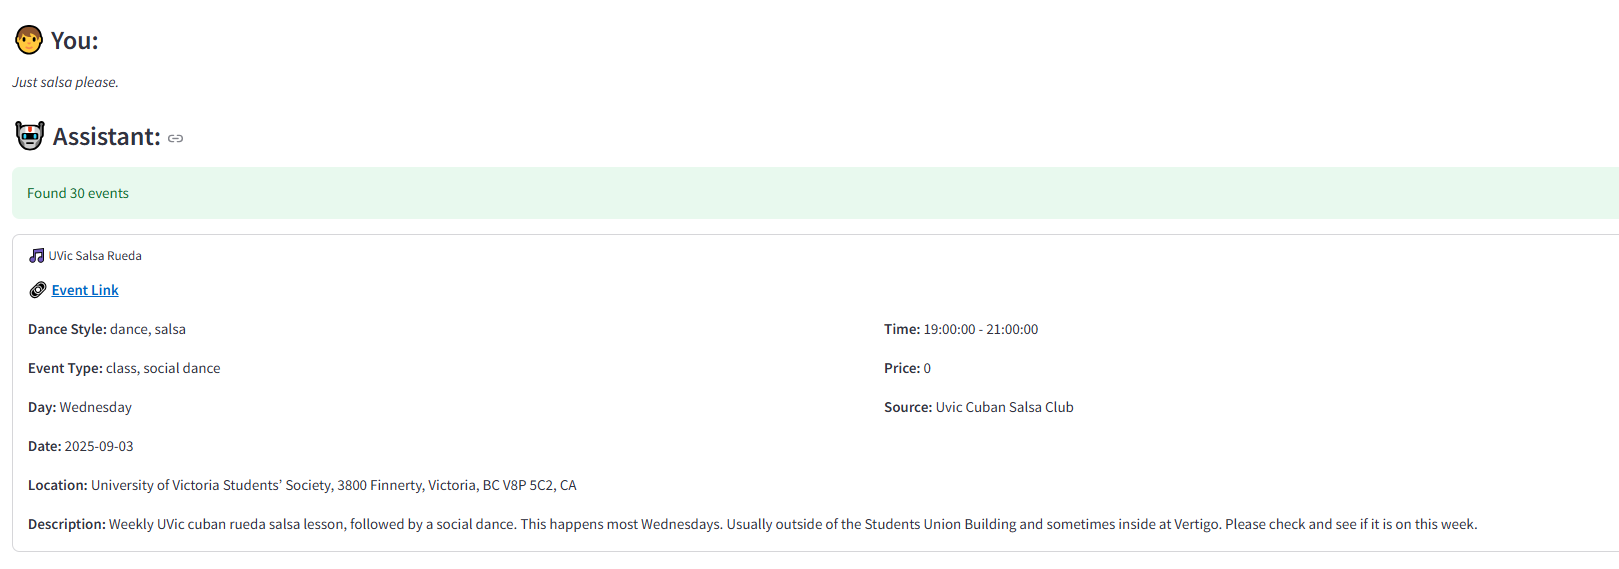
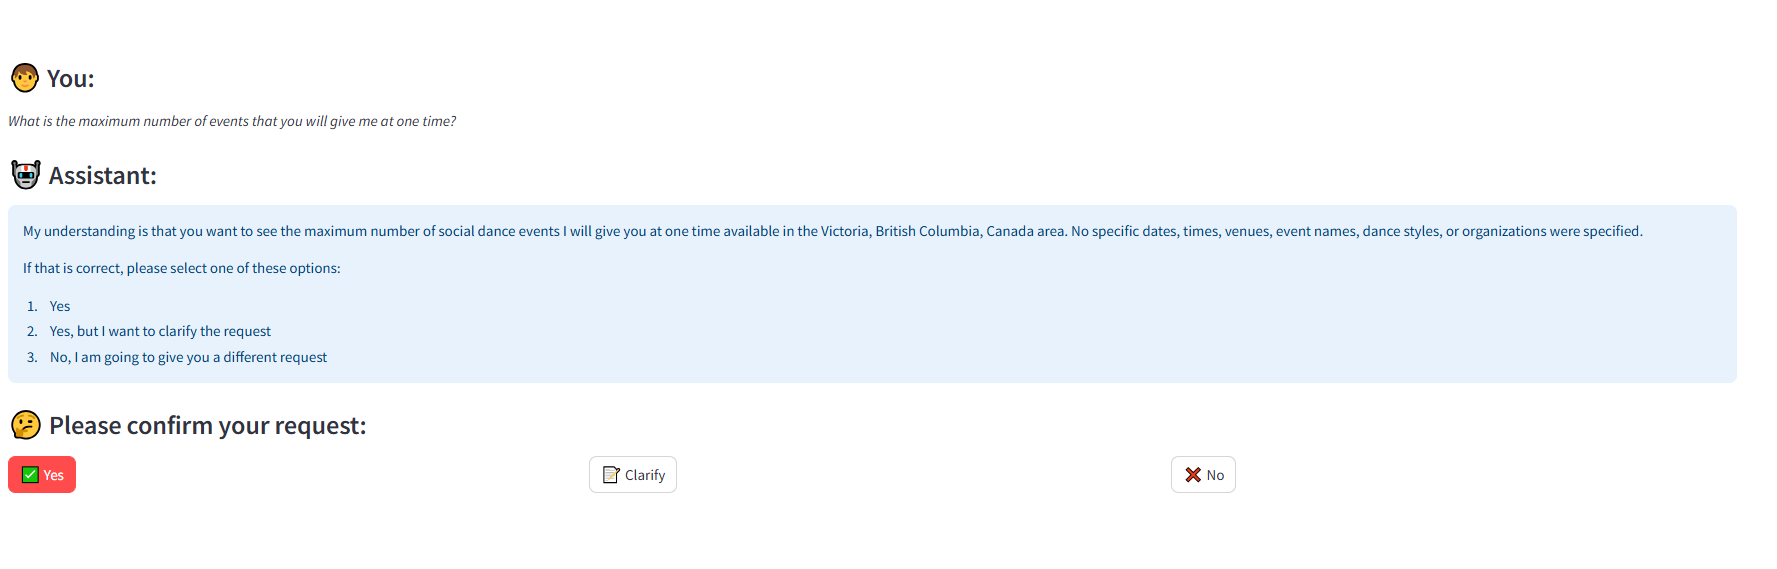
Removed the text that confirms the users choice and left the buttons.

diff --git a/src/main.py b/src/main.py
@@ -425,7 +425,7 @@ def process_query(request: QueryRequest):
                 "confirmation_required": True,
                 "conversation_id": conversation_id if use_contextual_prompt else None,
                 "intent": intent if use_contextual_prompt else None,
-                "message": f"{interpretation}\n\nIf that is correct, please select one of these options:\n1. Yes\n2. Yes, but I want to clarify the request\n3. No, I am going to give you a different request",
+                "message": f"{interpretation}\n\nIf that is correct, please confirm using the buttons below:",
                 "options": ["yes", "clarify", "no"]
             }
             
